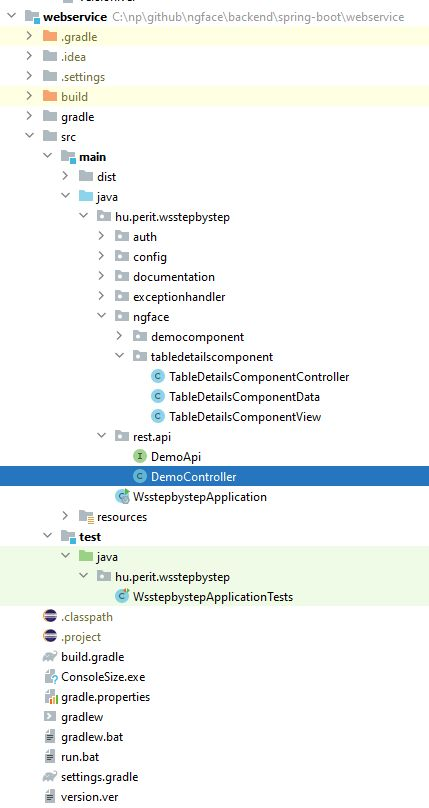
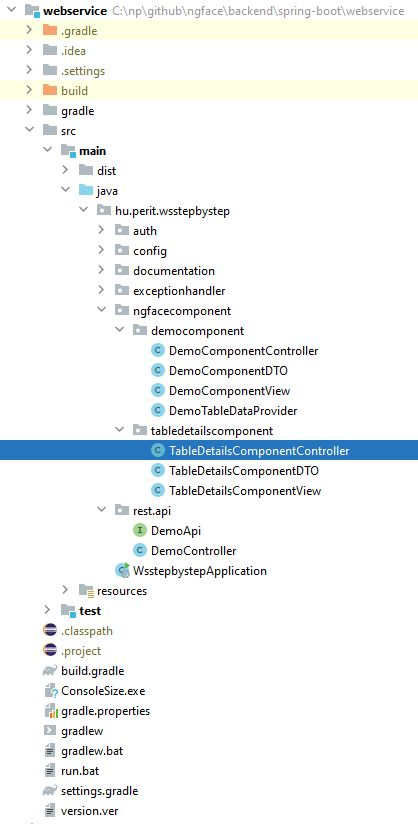
generator updated

Changed region(s): [[0.0, 0.0, 1.0, 1.0]]

diff --git a/backend/spring-boot/generator/src/main/resources/templates/Controller.java b/backend/spring-boot/generator/src/main/resources/templates/Controller.java
@@ -11,7 +11,7 @@ import java.util.Optional;
 @Service
 @RequiredArgsConstructor
 @Slf4j
-public class ${NAME}ComponentController implements ComponentController<${NAME}ComponentController.Params, ${NAME}ComponentData>
+public class ${NAME}ComponentController implements ComponentController<${NAME}ComponentController.Params, ${NAME}ComponentDTO>
 {
     @Data
     public static class Params
@@ -21,15 +21,15 @@ public class ${NAME}ComponentController implements ComponentController<${NAME}Co
 
 
     @Override
-    public ${NAME}ComponentData initializeData(Params params)
+    public ${NAME}ComponentDTO initializeData(Params params)
     {
-        ${NAME}ComponentData data = new ${NAME}ComponentData();
+        ${NAME}ComponentDTO data = new ${NAME}ComponentDTO();
         return data;
     }
 
 
     @Override
-    public void onSave(${NAME}ComponentData data)
+    public void onSave(${NAME}ComponentDTO data)
     {
     }
 }

diff --git a/backend/spring-boot/generator/src/main/resources/templates/DTO.java b/backend/spring-boot/generator/src/main/resources/templates/DTO.java
@@ -1,0 +1,33 @@
+package ${PACKAGE};
+
+import hu.perit.ngface.data.ComponentDTO;
+import hu.perit.ngface.data.DTOId;
+import hu.perit.ngface.data.DTOValue;
+import lombok.Data;
+
+import javax.validation.constraints.DecimalMax;
+import javax.validation.constraints.Size;
+
+@Data
+public class ${NAME}ComponentDTO extends ComponentDTO
+{
+    public static final String WEIGHT = "weight";
+    public static final String SYMBOL = "symbol";
+
+    // Id of the data row
+    @DTOId
+    private String id;
+
+    // Name of the modal. Not annotated with @DTOValue because it will not be sumbitted by the frontend
+    private String name;
+
+    // Weight data element
+    @DTOValue(id = WEIGHT)
+    @DecimalMax("100.0")
+    private Double weight;
+
+    // Symbol data element
+    @DTOValue(id = SYMBOL)
+    @Size(min = 2, max = 10)
+    private String symbol;
+}

diff --git a/backend/spring-boot/generator/src/main/resources/templates/View.java b/backend/spring-boot/generator/src/main/resources/templates/View.java
@@ -4,15 +4,13 @@ import hu.perit.ngface.view.ComponentView;
 import hu.perit.ngface.widget.form.Form;
 import lombok.RequiredArgsConstructor;
 
-import java.math.BigDecimal;
-
 @RequiredArgsConstructor
 public class ${NAME}ComponentView implements ComponentView
 {
 //    public static final String WEIGHT = "weight";
 //    public static final String SYMBOL = "symbol";
 
-    private final ${NAME}ComponentData data;
+    private final ${NAME}ComponentDTO data;
 
     @Override
     public Form getForm()

diff --git a/backend/spring-boot/generator/src/main/java/hu/perit/ngface/generator/Application.java b/backend/spring-boot/generator/src/main/java/hu/perit/ngface/generator/Application.java
@@ -57,7 +57,7 @@ public class Application
 
             config.put(Constants.PACKAGE, getPackageName(config));
 
-            processFile("Data.java", config);
+            processFile("DTO.java", config);
             processFile("Controller.java", config);
             processFile("View.java", config);
         }

diff --git a/README.md b/README.md
@@ -31,61 +31,61 @@ This example is responsible for handling the communication with the frontend in 
 
 ### Rest controller
 ```java
-    //------------------------------------------------------------------------------------------------------------------
-    // getTableDetailsForm()
-    //------------------------------------------------------------------------------------------------------------------
-    @Override
-    public Form getTableDetailsForm(Long id)
-    {
-        TableDetailsComponentController.Params params = new TableDetailsComponentController.Params(id);
-        log.debug("getTableDetailsForm({})", params);
+@Override
+public Form getTableDetailsForm(Long id)
+{
+    TableDetailsComponentController.Params params = new TableDetailsComponentController.Params(id);
+    log.debug("getTableDetailsForm({})", params);
 
-        TableDetailsComponentData data = this.tableDetailsComponentController.initializeData(params);
-        return new TableDetailsComponentView(data).getForm();
-    }
+    TableDetailsComponentDTO data = this.tableDetailsComponentController.initializeData(params);
+    return new TableDetailsComponentView(data).getForm();
+}
 
 
-    //------------------------------------------------------------------------------------------------------------------
-    // submitTableDetailsForm()
-    //------------------------------------------------------------------------------------------------------------------
-    @Override
-    public void submitTableDetailsForm(SubmitFormData submitFormData)
-    {
-        log.debug("submitTableDetailsForm({})", submitFormData);
+@Override
+public void submitTableDetailsForm(SubmitFormData submitFormData)
+{
+    log.debug("submitTableDetailsForm({})", submitFormData);
 
-        TableDetailsComponentData data = new TableDetailsComponentData();
-        data.formSubmitted(submitFormData);
-        this.tableDetailsComponentController.onSave(data);
-    }
-
+    TableDetailsComponentDTO data = new TableDetailsComponentDTO();
+    data.formSubmitted(submitFormData);
+    this.tableDetailsComponentController.onSave(data);
+}
 ```
 
 ### ngface.tabledetailscomponent package
 
 Each ngface backend component consists of 3 classes:
-- Data class
+- DTO class
 - Controller class
 - View class
 
 #### Data class
-The data class holds all the data which will be shown on the form. When the form will be submitted the `formSubmitted` method will be called with the content as a map. 
+The data class holds all the data which will be shown on the form. When the form is submitted the `formSubmitted` method of the parent class will be called with the content as a map. The individual values will be extracted by reflection in the parent class according the `@DTOValue` annotation. 
 
 ```java
 @Data
-public class TableDetailsComponentData implements ComponentData
+public class TableDetailsComponentDTO extends ComponentDTO
 {
-    private String id;
-    private String name;
-    private Double weight;
-    private String symbol;
+    public static final String WEIGHT = "weight";
+    public static final String SYMBOL = "symbol";
 
-    @Override
-    public void formSubmitted(SubmitFormData submitFormData)
-    {
-        this.id = submitFormData.getId();
-        this.weight = submitFormData.getNumericInputValue(TableDetailsComponentView.WEIGHT).doubleValue();
-        this.symbol = submitFormData.getTextInputValue(TableDetailsComponentView.SYMBOL);
-    }
+    // Id of the data row
+    @DTOId
+    private String id;
+
+    // Name of the modal. Not annotated with @DTOValue because it will not be sumbitted by the frontend
+    private String name;
+
+    // Weight data element
+    @DTOValue(id = WEIGHT)
+    @DecimalMax("100.0")
+    private Double weight;
+
+    // Symbol data element
+    @DTOValue(id = SYMBOL)
+    @Size(min = 2, max = 10)
+    private String symbol;
 }
 ```
 
@@ -107,7 +107,7 @@ The controller class is a Spring service, which is called from the Rest controll
 @Service
 @RequiredArgsConstructor
 @Slf4j
-public class TableDetailsComponentController implements ComponentController<TableDetailsComponentController.Params, TableDetailsComponentData>
+public class TableDetailsComponentController implements ComponentController<TableDetailsComponentController.Params, TableDetailsComponentDTO>
 {
     @Data
     public static class Params
@@ -119,9 +119,9 @@ public class TableDetailsComponentController implements ComponentController<Tabl
 
 
     @Override
-    public TableDetailsComponentData initializeData(Params params)
+    public TableDetailsComponentDTO initializeData(Params params)
     {
-        TableDetailsComponentData data = new TableDetailsComponentData();
+        TableDetailsComponentDTO data = new TableDetailsComponentDTO();
         Optional<DemoTableDataProvider.DataRow> optTableRow = this.demoTableDataProvider.getTableRow(params.id);
         if (optTableRow.isPresent())
         {
@@ -138,7 +138,7 @@ public class TableDetailsComponentController implements ComponentController<Tabl
 
 
     @Override
-    public void onSave(TableDetailsComponentData data)
+    public void onSave(TableDetailsComponentDTO data)
     {
         Optional<DemoTableDataProvider.DataRow> optTableRow = this.demoTableDataProvider.getTableRow(Long.valueOf(data.getId()));
         if (optTableRow.isPresent())
@@ -161,27 +161,23 @@ The view class receives the data in the constructor. Its task is to create the F
 - validators
 
 ```java
-public class Constants
-{
-    public static final NumericFormat ATOMIC_WEIGHT_FORMAT = new NumericFormat().precision(4).suffix("g/mol");
-}
-
 @RequiredArgsConstructor
 public class TableDetailsComponentView implements ComponentView
 {
-    public static final String WEIGHT = "weight";
-    public static final String SYMBOL = "symbol";
-
-    private final TableDetailsComponentData data;
+    private final TableDetailsComponentDTO data;
 
     @Override
     public Form getForm()
     {
         return new Form(data.getId())
                 .title(String.format("Details of %s", this.data.getName()))
-                .addWidget(new TextInput(SYMBOL).value(this.data.getSymbol()).label("Symbol").addValidator(new Required("Symbol is required!")))
-                .addWidget(new NumericInput(WEIGHT)
-                        .value(BigDecimal.valueOf(this.data.getWeight()))
+                .addWidget(new TextInput(TableDetailsComponentDTO.SYMBOL)
+                        .value(this.data.getSymbol())
+                        .label("Symbol")
+                        .addValidator(new Required("Symbol is required!"))
+                )
+                .addWidget(new NumericInput(TableDetailsComponentDTO.WEIGHT)
+                        .value(this.data.getWeight())
                         .label("Weight")
                         .format(Constants.ATOMIC_WEIGHT_FORMAT)
                         .addValidator(new Required("Weight is required!"))
@@ -275,23 +271,30 @@ export class DemoDialog1Component extends FormBaseComponent implements OnInit
         {
           // Submitting new data to the backend
           this.demoService.submitTableDetailsForm({id: row.id, widgetDataMap: result}).subscribe(
-            () => console.log('sumbitted'),
+            () =>
+            {
+              console.log('sumbitted');
+              // reload table content
+              this.demoService.getDemoForm(undefined, undefined, undefined, undefined, row.id).subscribe(data =>
+              {
+                console.log(data);
+                row.cells = data.widgets['table-multiselect'].rows[0].cells;
+              });
+            },
             error => console.log(error));
-
-          // reload table content
-          this.demoService.getDemoForm(undefined, undefined, undefined, undefined, row.id).subscribe(data =>
-          {
-            console.log(data);
-            row.cells = data.widgets['table-multiselect'].rows[0].cells;
-          });
         }
       });
     });
   }
 ```
+
+## Backend code generator
+
+See the `generator` subproject.
+
+
 # Open issues
 
-- NumericInputnál csak a megadott számú tizedes jegyet lehessen beírni
 - DateRangeInput típusú inputoknál időzóna eltérés
 - DateInput formázás magyar dátumformátumra
 - Kellene PasswordInput. Vagy legyen a TextInputnak egy plusz paramétere vagy egy speciális validátora
